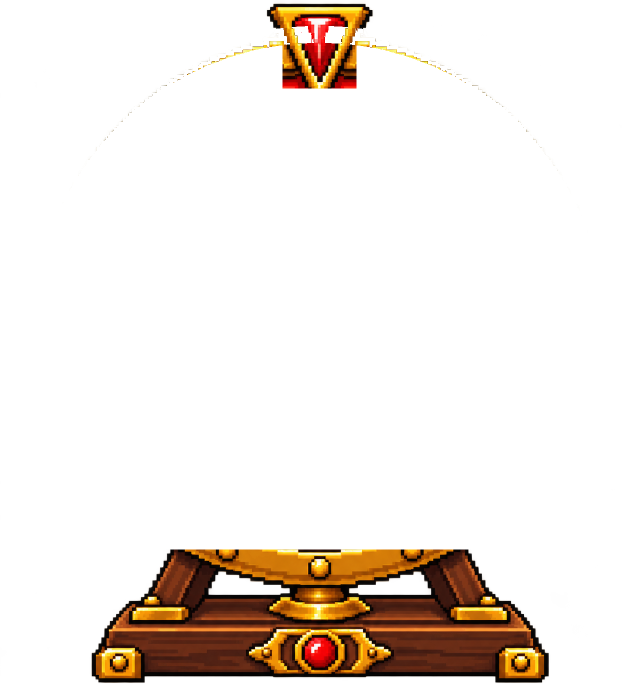
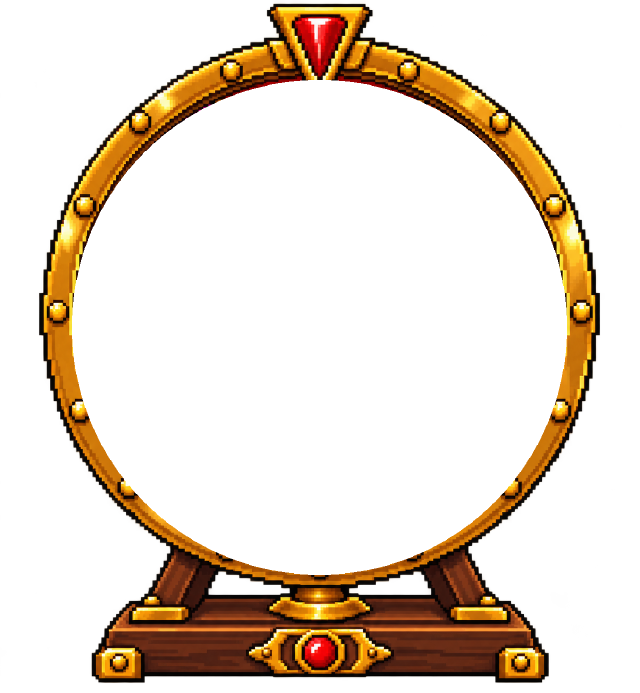
La cara de la ruleta se traza en vez de girar el dibujo
Sergio: "al girar la imagen se distorsiona y se rompe, el resultado no es
aceptable". Tenia razon y el motivo no era el suavizado ni el tamano: LA RUEDA
DIBUJADA NO ES UN CIRCULO. Su canto va de 528 a 541 pixeles segun por donde se
mida y el borde interior del aro es todavia mas irregular, asi que al girarla su
silueta giraba con ella —el canto ondulaba, el aro parecia doble y una costura
recorria la rueda—. Se probaron cuatro radios de corte y dos remiendos por
simetria; ninguno lo arregla, porque el problema no es por donde se corta sino
que se esta girando un dibujo hecho a mano que no es simetrico de revolucion.

Asi que ahora gira lo unico que puede girar sin romperse: OCHO SECTORES
TRAZADOS, circulares por definicion y sin un solo pixel que remuestrear. Los
ocho colores estan muestreados del propio dibujo, y con ellos van los radios de
laton, la sombra interior del aro y el eje.

El dibujo de Sergio se queda con la parte que NO gira y que es la que tiene
caracter —aro, tachones, puntero y soporte—, recortado a un circulo exacto por
dentro del aro. Encaja porque un aro es igual mire por donde se mire: que no gire
no se nota, y a cambio el canto de la rueda es perfectamente redondo pase lo que
pase con el angulo.

De paso desaparecen todos los apanos que habia acumulado el recorte: el remiendo
del puntero, el de las patas, el borrado del contorno duplicado y el segundo PNG.
La herramienta guarda un solo fichero y no hay ningun caso especial.
[…]

Changed region(s): [[0.0625, 0.0303, 0.9375, 0.8485]]

diff --git a/js/ui/cofre.js b/js/ui/cofre.js
@@ -48,10 +48,17 @@ const ALTO_CABECERA = 46;
 const ALTO_RESULTADO = 42;
 const ALTO_PIE = 22;
 
-// Radio al que se colocan los iconos, en fracción del radio de la rueda. 0,62
+// Radio al que se colocan los iconos, en fracción del radio de la rueda. 0,60
 // los deja centrados en la parte ancha del sector: más adentro se amontonan
 // contra el eje y más afuera se meten en el aro.
-const RADIO_ICONOS = 0.62;
+const RADIO_ICONOS = 0.60;
+
+// Y su tamaño, también en fracción del radio. Bajado de 0,30 a 0,225 a petición
+// de Sergio: a 0,30 el icono llegaba de un radio del sector al otro y se comía
+// las líneas que separan las porciones, así que la rueda se leía como un
+// amasijo de dibujos en vez de como ocho casillas con una cosa en cada una.
+const ICONO_POR_RADIO = 0.225;
+const ICONO_MAX = 13;
 
 // Vueltas que da cada rueda antes de pararse. Cuatro es lo que hace falta para
 // que se lea como "ha girado" y no como "ha saltado a su sitio".
@@ -79,35 +86,106 @@ function ruedaParada(i) {
   return Progresion.relojGiro >= duracionGiro(i);
 }
 
-// Una rueda con sus ocho iconos. `cx`,`cy` es el centro del DISCO, no el de la
+// Los ocho colores de la cara, muestreados del propio dibujo de Sergio y en su
+// orden: el rojo arriba y de ahí en el sentido de las agujas del reloj.
+const COLORES_SECTOR = [
+  '#e60205', '#fd7101', '#fdda04', '#05ca03',
+  '#00daef', '#004cfa', '#7809fb', '#fb1fc4'
+];
+const COLOR_LATON = '#d8a640';
+const COLOR_LATON_ALTO = '#ffe2a0';
+
+// LA CARA DE LA RUEDA SE TRAZA, NO SE GIRA.
+//
+// Esto empezó girando el dibujo entero de la ruleta y no valía: "al girar la
+// imagen se distorsiona y se rompe". El motivo no era el suavizado ni el tamaño,
+// era que LA RUEDA DIBUJADA NO ES UN CÍRCULO —su canto va de 528 a 541 píxeles
+// según por dónde se mida y el borde interior del aro es aún más irregular—, así
+// que al girarla su silueta giraba con ella: el canto ondulaba, el aro parecía
+// doble y una costura recorría la rueda. Ningún radio de corte lo arregla,
+// porque el problema es girar un dibujo hecho a mano que no es simétrico de
+// revolución.
+//
+// Así que gira lo único que puede girar sin romperse: ocho sectores trazados,
+// que son circulares por definición y no tienen píxeles que remuestrear. El
+// dibujo de Sergio se queda con la parte que NO gira y que es la que tiene
+// carácter —aro, tachones, puntero y soporte—, y se pinta encima recortado a un
+// círculo exacto (ver RecortarRuleta en la herramienta).
+function dibujarCara(ctx, cx, cy, radio, ang) {
+  const paso = TAU / CASILLAS_RULETA;
+
+  for (let k = 0; k < CASILLAS_RULETA; k++) {
+    // La casilla k está CENTRADA en su ángulo, que es lo que hace que la
+    // ganadora quede debajo del puntero y no a medio sector de él.
+    const a0 = ang + k * paso - paso / 2 - Math.PI / 2;
+    ctx.beginPath();
+    ctx.moveTo(cx, cy);
+    ctx.arc(cx, cy, radio, a0, a0 + paso);
+    ctx.closePath();
+    ctx.fillStyle = COLORES_SECTOR[k];
+    ctx.fill();
+  }
+
+  // Los radios de latón que separan las porciones. Van DESPUÉS de los rellenos
+  // para que tapen la juntura entre sectores contiguos, que si no se ve como una
+  // línea dentada donde se tocan dos colores.
+  ctx.lineCap = 'butt';
+  ctx.lineWidth = Math.max(1.5, radio * 0.035);
+  ctx.strokeStyle = COLOR_LATON;
+  ctx.beginPath();
+  for (let k = 0; k < CASILLAS_RULETA; k++) {
+    const a = ang + (k + 0.5) * paso - Math.PI / 2;
+    ctx.moveTo(cx, cy);
+    ctx.lineTo(cx + Math.cos(a) * radio, cy + Math.sin(a) * radio);
+  }
+  ctx.stroke();
+
+  // Sombra por dentro del aro: es lo que ata la cara trazada con el aro dibujado
+  // en vez de dejar los colores cortados a cuchillo contra el latón.
+  const grosor = Math.max(1.5, radio * 0.06);
+  ctx.lineWidth = grosor;
+  ctx.strokeStyle = 'rgba(52,26,8,.5)';
+  ctx.beginPath();
+  ctx.arc(cx, cy, radio - grosor / 2, 0, TAU);
+  ctx.stroke();
+
+  // El eje, en el centro. Redondo y de latón, como en el dibujo: un anillo
+  // exterior, el cuerpo y un brillo pequeño arriba a la izquierda, que es lo que
+  // lo lee como una pieza abombada en vez de como un círculo pintado.
+  const rEje = Math.max(4, radio * 0.155);
+  ctx.beginPath();
+  ctx.arc(cx, cy, rEje, 0, TAU);
+  ctx.fillStyle = 'rgba(52,26,8,.75)';
+  ctx.fill();
+  ctx.beginPath();
+  ctx.arc(cx, cy, rEje * 0.82, 0, TAU);
+  ctx.fillStyle = COLOR_LATON;
+  ctx.fill();
+  ctx.beginPath();
+  ctx.arc(cx - rEje * 0.22, cy - rEje * 0.22, rEje * 0.34, 0, TAU);
+  ctx.fillStyle = COLOR_LATON_ALTO;
+  ctx.fill();
+}
+
+// Una rueda con sus ocho iconos. `cx`,`cy` es el centro del ARO, no el de la
 // imagen: el dibujo trae el soporte debajo, así que su centro geométrico cae por
 // debajo del eje de la rueda y alinear por ahí descuadraría las tres.
 function dibujarRueda(ctx, cx, cy, ancho, m, i) {
-  const disco = Recursos.meta('ruletaDisco');
-  const imgDisco = Recursos.imagen('ruletaDisco');
+  const marco = Recursos.meta('ruletaMarco');
   const imgMarco = Recursos.imagen('ruletaMarco');
-  if (!disco || !imgDisco) return;
+  if (!marco) return;
 
-  const esc = ancho / disco.w;
-  const w = disco.w * esc;
-  const h = disco.h * esc;
-  const ox = cx - disco.centroX * esc;      // esquina de la imagen
-  const oy = cy - disco.centroY * esc;
-  const radio = disco.radio * esc;
+  const esc = ancho / marco.w;
+  const radio = marco.radio * esc;          // canto exterior, para colocar iconos
+  const radioCara = marco.radioCara * esc;  // hasta donde llega lo que gira
   const ang = anguloRueda(i, m);
 
-  // El disco, girado sobre el eje de la rueda.
-  ctx.save();
-  ctx.translate(cx, cy);
-  ctx.rotate(ang);
-  ctx.drawImage(imgDisco, 0, 0, disco.w, disco.h,
-                -disco.centroX * esc, -disco.centroY * esc, w, h);
-  ctx.restore();
+  dibujarCara(ctx, cx, cy, radioCara, ang);
 
-  // Los iconos ORBITAN con el disco pero se dibujan DERECHOS. Girarlos con su
+  // Los iconos ORBITAN con la cara pero se dibujan DERECHOS. Girarlos con su
   // sector sería más fiel a una ruleta física y peor de leer: media rueda
   // quedaría boca abajo, y lo que hay que reconocer aquí es un arma.
-  const rIcono = Math.min(16, radio * 0.30);
+  const rIcono = Math.min(ICONO_MAX, radio * ICONO_POR_RADIO);
   for (let k = 0; k < CASILLAS_RULETA; k++) {
     const c = m.casillas[k];
     if (!c.id) continue;
@@ -122,9 +200,18 @@ function dibujarRueda(ctx, cx, cy, ancho, m, i) {
     }
   }
 
-  // El marco —puntero y soporte— encima y quieto, que es la razón de que el
-  // dibujo venga partido en dos (ver PartirRuleta en la herramienta).
-  if (imgMarco) ctx.drawImage(imgMarco, 0, 0, disco.w, disco.h, ox, oy, w, h);
+  // El armazón encima y quieto: aro, tachones, puntero y soporte. Con suavizado
+  // explícito porque se reduce de 640 al ancho de la ventana, y a vecino más
+  // próximo una reducción por un factor roto se come filas enteras de píxeles.
+  if (imgMarco) {
+    ctx.save();
+    ctx.imageSmoothingEnabled = true;
+    ctx.imageSmoothingQuality = 'high';
+    ctx.drawImage(imgMarco, 0, 0, marco.w, marco.h,
+                  cx - marco.centroX * esc, cy - marco.centroY * esc,
+                  marco.w * esc, marco.h * esc);
+    ctx.restore();
+  }
 
   // Parada: se enciende la casilla premiada. Sin esto, con ocho iconos en la
   // rueda hay que fiarse de dónde cae el puntero, y el puntero es fino.
@@ -172,8 +259,8 @@ function dibujarRuletas(ctx, jugadores, j) {
   const n = Progresion.nMejoras;
   const ancho = n > 1 ? ANCHO_RUEDA_TRES : ANCHO_RUEDA_UNA;
 
-  const disco = Recursos.meta('ruletaDisco');
-  const altoRueda = disco ? ancho * disco.h / disco.w : ancho;
+  const marco = Recursos.meta('ruletaMarco');
+  const altoRueda = marco ? ancho * marco.h / marco.w : ancho;
 
   const anchoVentana = RELLENO_VENTANA * 2 + n * ancho + (n - 1) * HUECO_RUEDA;
   const altoVentana = ALTO_CABECERA + altoRueda + ALTO_RESULTADO + ALTO_PIE;
@@ -209,9 +296,9 @@ function dibujarRuletas(ctx, jugadores, j) {
 
   cenefa(ctx, px + RELLENO_VENTANA, py + 32, anchoVentana - RELLENO_VENTANA * 2);
 
-  // El centro del DISCO, que no es el centro de la imagen: el soporte de madera
+  // El centro del ARO, que no es el centro de la imagen: el soporte de madera
   // cuelga por debajo del eje.
-  const yEje = py + ALTO_CABECERA + (disco ? disco.centroY * ancho / disco.w : altoRueda / 2);
+  const yEje = py + ALTO_CABECERA + (marco ? marco.centroY * ancho / marco.w : altoRueda / 2);
   for (let i = 0; i < n; i++) {
     const cx = px + RELLENO_VENTANA + ancho / 2 + i * (ancho + HUECO_RUEDA);
     dibujarRueda(ctx, cx, yEje, ancho, Progresion.mejoras[i], i);
